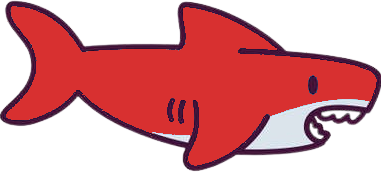
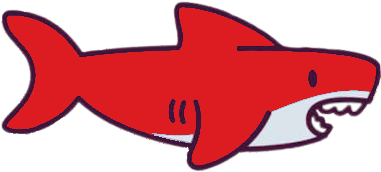
Reverse Player

Changed region(s): [[0.0, 0.0, 0.6063, 1.0], [0.5774, 0.0581, 1.0, 0.9302]]

diff --git a/src/interface.py b/src/interface.py
@@ -43,7 +43,7 @@ class Interface:
         # Définition des constantes pour les dimensions et les positions des éléments
         input_box = pygame.Rect(75, 50, 250, 30)
         button = pygame.Rect(150, 100, 100, 50)
-        font = pygame.font.Font(None, 36)
+        font = pygame.font.Font(None, 26)
         clock = pygame.time.Clock()
         running = True
         username = ""
@@ -128,12 +128,17 @@ class Interface:
                         self.local_player.pos_x=player.get_pos_x()
                         self.local_player.pos_y=player.get_pos_y()
                 # We move the player
+                    movement=None
                     keys = pygame.key.get_pressed()
                     if any(key !=0 for key in keys):
                         movement = Movement(player.get_pos_x(),player.get_pos_y(),pygame,self.request,player.get_id())
                         movement.move(clock.tick(120) / 1000,keys)
+                        
                 # We draw the player
-                    player.draw(screen,"blue")
+                    if(movement!=None):
+                        player.draw(screen,"blue",movement.reverse)
+                    else:
+                        player.draw(screen,"blue")
                 else:
                     player.draw(screen)
                 # We delete the player instance
@@ -166,5 +171,3 @@ class Interface:
             self.game(username)
         else:
             self.request.close()
-
-    

diff --git a/src/Entities/player.py b/src/Entities/player.py
@@ -18,14 +18,16 @@ class Player:
         #Image player
         
 
-    def draw(self, screen,color="red"):
+    def draw(self, screen,color="red",reverse=False):
         # This function draw the player on the screen with a circle
         self.player_rect.x = self.pos_x
         self.player_rect.y = self.pos_y
+        flipped_image_vertical = self.image_player
         if(color=="blue"):
             self.player_rect.x = self.pos_x
             self.player_rect.y = self.pos_y
-            self.screen_instance.blit(self.image_player,(self.player_rect.x-30,self.player_rect.y-17))
+            flipped_image_vertical = self.pygame_instance.transform.flip(self.image_player, reverse, False)
+            self.screen_instance.blit(flipped_image_vertical,(self.player_rect.x-30,self.player_rect.y-17))
         else:
             self.opponent_rect.x = self.pos_x
             self.opponent_rect.y = self.pos_y
@@ -43,6 +45,7 @@ class Player:
         #Return the position of the player
         return self.pos_y
     
+    
     def set_pos_x(self, new_pos_x):
         #Set the position of the player
         self.pos_x = new_pos_x
@@ -50,3 +53,4 @@ class Player:
     def set_pos_y(self, new_pos_y):
         #Set the position of the player
         self.pos_y = new_pos_y
+        

diff --git a/src/Action/movement.py b/src/Action/movement.py
@@ -1,6 +1,7 @@
 class Movement:
     def __init__(self, player_pos_x,player_pos_y, pygame_instance,request_instance,id_player):
         self.request_instance = request_instance
+        self.reverse=False
         self.player_pos_x = player_pos_x
         self.player_pos_y = player_pos_y
         self.pygame_instance = pygame_instance
@@ -19,9 +20,11 @@ class Movement:
             data={'newX':self.player_pos_x,'newY':(self.player_pos_y+300*dt),'dt':dt}
             self.player_pos_y += 300 * dt
         if keys[self.pygame_instance.K_q]:
+            self.reverse=True
             data={'newX':(self.player_pos_x-300*dt),'newY':self.player_pos_y,'dt':dt}
             self.player_pos_x -= 300 * dt
         if keys[self.pygame_instance.K_d]:
             data={'newX':(self.player_pos_x+300*dt),'newY':self.player_pos_y,'dt':dt}
+            self.reverse=False
             self.player_pos_x += 300 * dt
         self.request_instance.put("player/"+str(self.id_player)+"/move",data)
